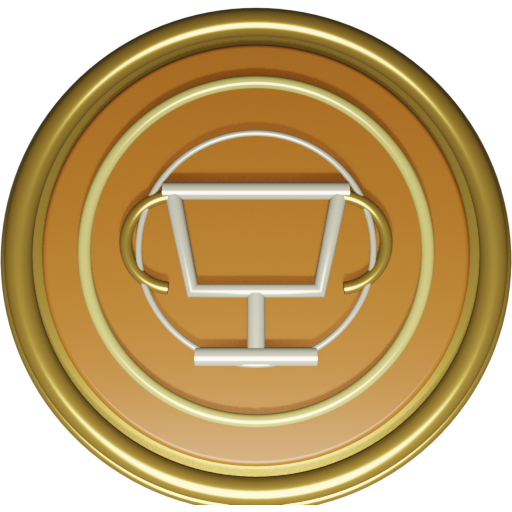
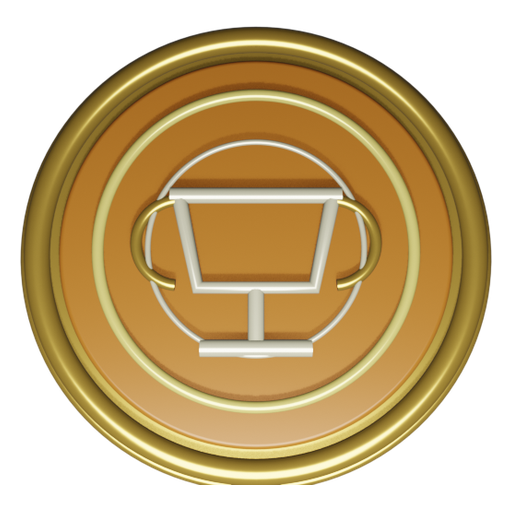
Fix cup thumbnail framing

diff --git a/tools/generate_achievement_models.py b/tools/generate_achievement_models.py
@@ -549,7 +549,9 @@ def center_thumbnail(path):
     image = bpy.data.images.load(str(path))
     width, height = image.size
     pixels = list(image.pixels)
+    min_x = width
     min_y = height
+    max_x = -1
     max_y = -1
 
     for y in range(height):
@@ -557,17 +559,22 @@ def center_thumbnail(path):
         for x in range(width):
             alpha = pixels[row_start + x * 4 + 3]
             if alpha > ALPHA_CENTERING_THRESHOLD:
+                min_x = min(min_x, x)
                 min_y = min(min_y, y)
+                max_x = max(max_x, x)
                 max_y = max(max_y, y)
 
     if max_y < min_y:
         bpy.data.images.remove(image)
         return
 
+    content_center_x = (min_x + max_x) / 2
     content_center = (min_y + max_y) / 2
-    target_center = (height - 1) / 2
-    shift_y = round(target_center - content_center)
-    if shift_y == 0:
+    target_center_x = (width - 1) / 2
+    target_center_y = (height - 1) / 2
+    shift_x = round(target_center_x - content_center_x)
+    shift_y = round(target_center_y - content_center)
+    if shift_x == 0 and shift_y == 0:
         bpy.data.images.remove(image)
         return
 
@@ -576,11 +583,15 @@ def center_thumbnail(path):
         target_y = y + shift_y
         if target_y < 0 or target_y >= height:
             continue
-        source_start = y * width * 4
-        target_start = target_y * width * 4
-        shifted[target_start : target_start + width * 4] = pixels[
-            source_start : source_start + width * 4
-        ]
+        for x in range(width):
+            target_x = x + shift_x
+            if target_x < 0 or target_x >= width:
+                continue
+            source_index = (y * width + x) * 4
+            target_index = (target_y * width + target_x) * 4
+            shifted[target_index : target_index + 4] = pixels[
+                source_index : source_index + 4
+            ]
 
     image.pixels = shifted
     image.filepath_raw = str(path)
@@ -601,7 +612,7 @@ def render_thumbnail(name):
     direction = Vector((0, 0, 0.1)) - camera.location
     camera.rotation_euler = direction.to_track_quat("-Z", "Y").to_euler()
     camera.data.type = "PERSP"
-    camera.data.lens = 78
+    camera.data.lens = 72
     for size, suffix in THUMBNAIL_SIZES:
         bpy.context.scene.render.resolution_x = size
         bpy.context.scene.render.resolution_y = size